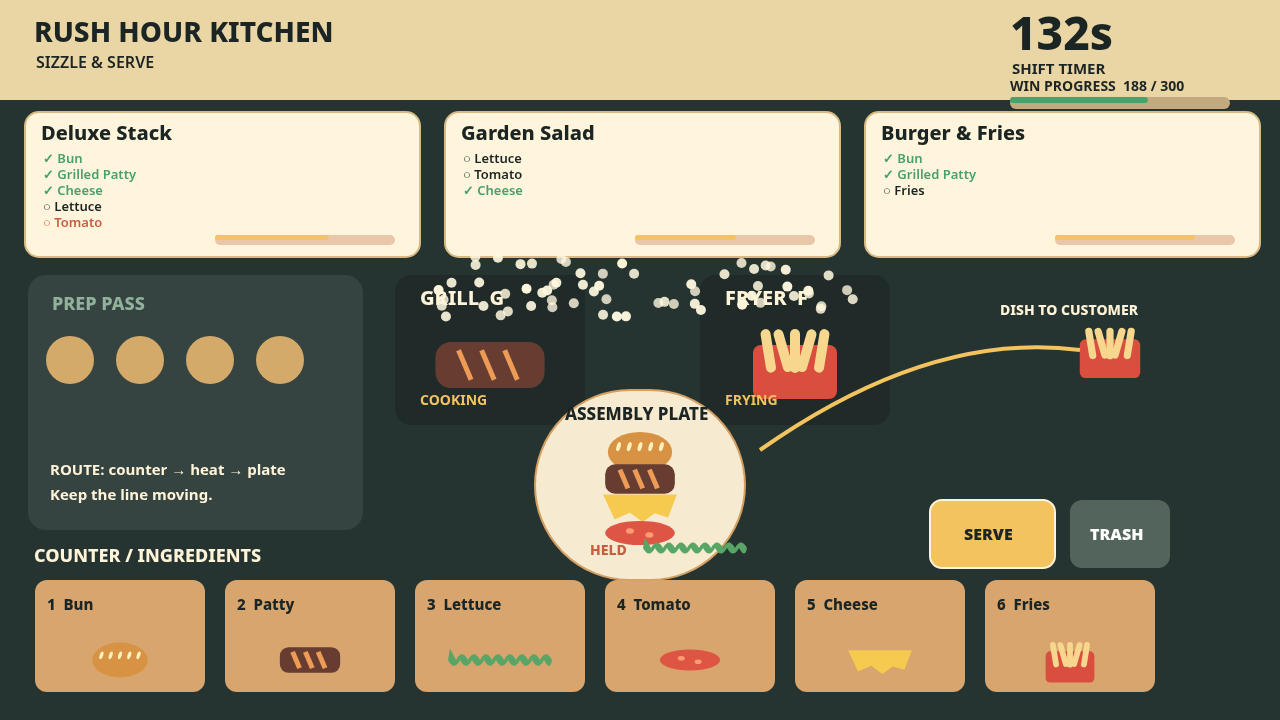
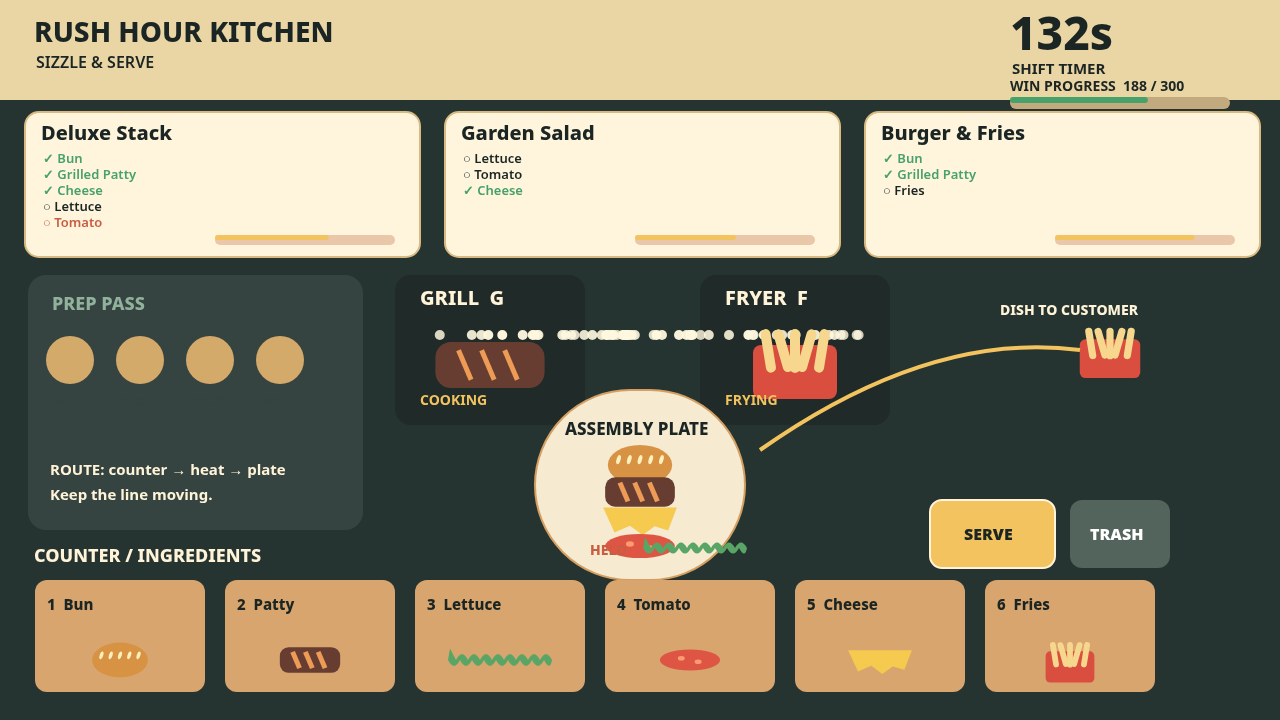
Polish steam and plate label layout

Changed region(s): [[0.3438, 0.3361, 0.6875, 0.4889], [0.4375, 0.55, 0.5625, 0.7944]]

diff --git a/game/src/render.js b/game/src/render.js
@@ -1,10 +1,11 @@
 import {W,H,COLORS,INGREDIENTS,WIN} from './config.js';
+const FINAL_LAYOUT_PASS=3;
 const LAYOUT_REVISION=2;
 const rr=(c,x,y,w,h,r,fill,stroke)=>{c.beginPath();c.roundRect(x,y,w,h,r);c.fillStyle=fill;c.fill();if(stroke){c.strokeStyle=stroke;c.lineWidth=2;c.stroke()}};
 function food(c,type,x,y,s=1){c.save();c.translate(x,y);if(type==='Bun'){c.fillStyle='#d79343';c.beginPath();c.ellipse(0,0,48*s,30*s,0,0,7);c.fill();c.fillStyle='#fff0bd';for(let i=-2;i<3;i++){c.beginPath();c.ellipse(i*16*s,-8*s,3*s,7*s,.3,0,7);c.fill()}}else if(type==='Patty'||type==='Grilled Patty'){c.fillStyle='#673d32';rr(c,-52*s,-22*s,104*s,44*s,15*s,c.fillStyle);c.strokeStyle='#ed9b55';c.lineWidth=5;for(let i=-30;i<31;i+=22){c.beginPath();c.moveTo(i*s,-14*s);c.lineTo((i+12)*s,14*s);c.stroke()}}else if(type==='Lettuce'){c.fillStyle='#58a565';c.beginPath();for(let i=-50;i<=50;i+=12)c.quadraticCurveTo(i,-20*s,i+6,0);for(let i=50;i>=-50;i-=12)c.quadraticCurveTo(i,20*s,i-6,0);c.fill()}else if(type==='Tomato'){c.fillStyle='#df5544';c.beginPath();c.ellipse(0,0,52*s,18*s,0,0,7);c.fill();c.fillStyle='#ff9b73';c.beginPath();c.ellipse(-15*s,-3*s,6*s,4*s,0,0,7);c.ellipse(14*s,3*s,6*s,4*s,0,0,7);c.fill()}else if(type==='Cheese'){c.fillStyle='#f6c94f';c.beginPath();c.moveTo(-55*s,-17*s);c.lineTo(55*s,-17*s);c.lineTo(42*s,17*s);c.lineTo(22*s,11*s);c.lineTo(4*s,24*s);c.lineTo(-15*s,10*s);c.lineTo(-38*s,20*s);c.closePath();c.fill()}else{c.fillStyle='#d94e3e';rr(c,-42*s,-15*s,84*s,54*s,8*s,c.fillStyle);c.fillStyle='#f6d78d';for(let i=-28;i<34;i+=14){c.save();c.translate(i*s,-17*s);c.rotate((i%20)*.02);rr(c,-5*s,-14*s,10*s,44*s,5*s,c.fillStyle);c.restore()}}c.restore()}
 export function draw(c,w,shot){c.clearRect(0,0,W,H);c.fillStyle='#263431';c.fillRect(0,0,W,H);c.fillStyle='#ead5a5';c.fillRect(0,0,W,100);c.fillStyle=COLORS.ink;c.font='800 28px system-ui';c.fillText('RUSH HOUR KITCHEN',34,42);c.font='600 16px system-ui';c.fillText('SIZZLE & SERVE',36,68);c.font='800 46px system-ui';c.fillText(`${Math.ceil(w.time)}s`,1010,50);c.font='700 15px system-ui';c.fillText('SHIFT TIMER',1012,74);c.font='700 14px system-ui';c.fillText(`WIN PROGRESS  ${w.score} / ${WIN}`,1010,91);rr(c,1010,97,220,12,6,'#c2aa7e');rr(c,1010,97,220*Math.min(1,w.score/WIN),6,3,COLORS.green);
  for(let i=0;i<3;i++){const o=w.orders[i],x=25+i*420;rr(c,x,112,395,145,14,'#fff5dd',o?.patience<8?COLORS.red:'#d8b982');c.fillStyle=COLORS.ink;c.font='800 20px system-ui';c.fillText(o?.name||'New order',x+16,140);c.font='600 13px system-ui';(o?.need||[]).forEach((n,j)=>{c.fillStyle=j<w.plate.length&&w.plate[j]===n?COLORS.green:j===w.plate.length?COLORS.terracotta:COLORS.ink;c.fillText(`${j<w.plate.length&&w.plate[j]===n?'✓':'○'} ${n}`,x+18,163+j*16)});rr(c,x+190,235,180,10,5,'#e9c7a8');rr(c,x+190,235,180*Math.max(0,(o?.patience||0)/28),5,3,o?.patience<8?COLORS.red:COLORS.gold);if(o?.patience<8){c.fillStyle=COLORS.red;c.font='900 13px system-ui';c.fillText('URGENT',x+300,140)}}
  rr(c,28,275,335,255,18,'#354441');c.fillStyle='#91b19c';c.font='800 18px system-ui';c.fillText('PREP PASS',52,310);for(let i=0;i<4;i++){c.fillStyle='#d4aa6a';c.beginPath();c.arc(70+i*70,360,24,0,7);c.fill();c.fillStyle='#354441';c.font='700 13px system-ui';c.fillText(['wash','slice','stack','plate'][i],49+i*70,405)}c.fillStyle=COLORS.cream;c.font='700 15px system-ui';c.fillText('ROUTE: counter → heat → plate',50,475);c.fillText('Keep the line moving.',50,500);
- rr(c,395,275,190,150,16,'#202a28');rr(c,700,275,190,150,16,'#202a28');for(const p of w.particles){c.globalAlpha=p.a;c.fillStyle='#fff8df';c.beginPath();c.arc(p.x,Math.min(345,p.y),5,0,7);c.fill()}c.globalAlpha=1;c.fillStyle=COLORS.cream;c.font='800 20px system-ui';c.fillText('GRILL  G',420,305);c.fillText('FRYER  F',725,305);food(c,w.grill.item||'Patty',490,365,1.05);food(c,w.fryer.item||'Fries',795,360,1.0);c.fillStyle=COLORS.gold;c.font='700 14px system-ui';c.fillText(w.grill.busy?'COOKING':'READY',420,405);c.fillText(w.fryer.busy?'FRYING':'READY',725,405);
- rr(c,535,390,210,190,105,'#f6ead0','#d49f61');c.fillStyle=COLORS.ink;c.font='800 17px system-ui';c.fillText('ASSEMBLY PLATE',565,420);w.plate.forEach((n,i)=>food(c,n,640,452+i*27,.67));if(w.hand){c.fillStyle=COLORS.terracotta;c.font='800 14px system-ui';c.fillText('HELD',590,555);food(c,w.hand,695,548,.55)}
+ rr(c,395,275,190,150,16,'#202a28');rr(c,700,275,190,150,16,'#202a28');for(const p of w.particles){c.globalAlpha=p.a;c.fillStyle='#fff8df';c.beginPath();c.arc(p.x,Math.max(335,Math.min(380,p.y)),5,0,7);c.fill()}c.globalAlpha=1;c.fillStyle=COLORS.cream;c.font='800 20px system-ui';c.fillText('GRILL  G',420,305);c.fillText('FRYER  F',725,305);food(c,w.grill.item||'Patty',490,365,1.05);food(c,w.fryer.item||'Fries',795,360,1.0);c.fillStyle=COLORS.gold;c.font='700 14px system-ui';c.fillText(w.grill.busy?'COOKING':'READY',420,405);c.fillText(w.fryer.busy?'FRYING':'READY',725,405);
+ rr(c,535,390,210,190,105,'#f6ead0','#d49f61');c.fillStyle=COLORS.ink;c.font='800 17px system-ui';c.fillText('ASSEMBLY PLATE',565,435);w.plate.forEach((n,i)=>food(c,n,640,465+i*27,.67));if(w.hand){c.fillStyle=COLORS.terracotta;c.font='800 14px system-ui';c.fillText('HELD',590,555);food(c,w.hand,695,548,.55)}
  c.fillStyle=COLORS.cream;c.font='800 18px system-ui';c.fillText('COUNTER / INGREDIENTS',34,562);INGREDIENTS.forEach((n,i)=>{const x=35+i*190;rr(c,x,580,170,112,12,'#d8a56e');c.fillStyle=COLORS.ink;c.font='800 15px system-ui';c.fillText(`${i+1}  ${n}`,x+12,610);food(c,n,x+85,660,.58)});const serveGlow=shot==='serve';rr(c,930,500,125,68,12,serveGlow?'#f2c35e':COLORS.terracotta,serveGlow?COLORS.cream:null);c.fillStyle=COLORS.ink;c.font='900 16px system-ui';c.fillText('SERVE',964,540);rr(c,1070,500,100,68,12,'#52645b');c.fillStyle='white';c.fillText('TRASH',1090,540);if(w.combo>1){const cy=w.mode==='win'?540:270;rr(c,930,cy,170,58,14,COLORS.gold);c.fillStyle=COLORS.ink;c.font='900 27px system-ui';c.fillText(`COMBO x${w.combo}`,950,cy+38)}w.pop.forEach(p=>{c.globalAlpha=p.a;c.fillStyle=COLORS.gold;c.font='900 28px system-ui';c.fillText(p.text,p.x,p.y)});c.globalAlpha=1;if(shot==='serve'){food(c,'Deluxe Stack',1110,350,.72);c.strokeStyle=COLORS.gold;c.lineWidth=4;c.beginPath();c.moveTo(760,450);c.quadraticCurveTo(930,330,1080,350);c.stroke();c.fillStyle=COLORS.cream;c.font='800 14px system-ui';c.fillText('DISH TO CUSTOMER',1000,315)}if(w.mode!=='play'){c.fillStyle='rgba(20,26,24,.76)';c.fillRect(220,185,840,350);rr(c,300,230,680,250,24,'#fff1ce');c.fillStyle=COLORS.ink;c.font='900 54px system-ui';c.fillText(w.mode==='win'?'SERVICE COMPLETE':'SHIFT OVER',420,310);c.font='700 24px system-ui';c.fillText(`Score ${w.score}   Served ${w.served}   Best combo x${w.bestCombo}`,390,365);c.font='600 18px system-ui';c.fillText('Press R to start a fresh shift',500,420)}}
